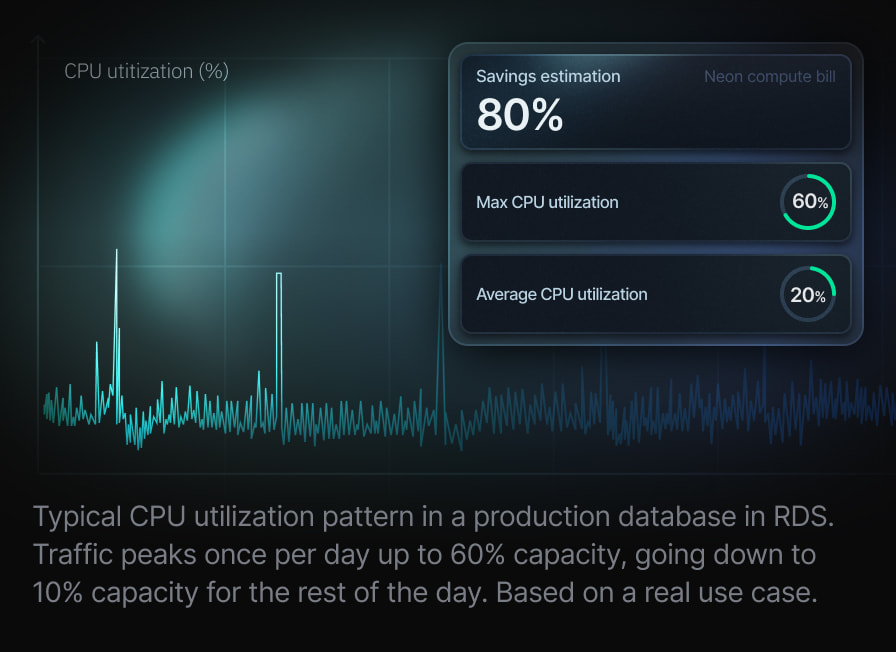
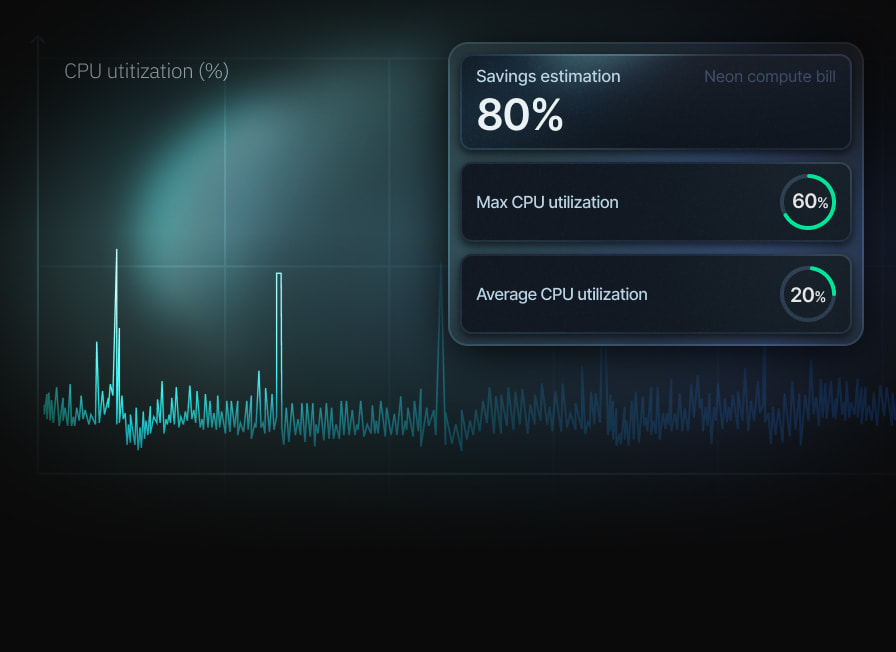
feat: move pay card feature text to html

Changed region(s): [[0.0312, 0.7669, 0.9375, 0.9509]]

diff --git a/src/components/pages/serverless-apps/features/features.jsx b/src/components/pages/serverless-apps/features/features.jsx
@@ -15,6 +15,7 @@ import speedIcon from 'icons/serverless-apps/features/speed.svg';
 import storageIcon from 'icons/serverless-apps/features/storage.svg';
 import timerIcon from 'icons/serverless-apps/features/timer.svg';
 import noServer from 'images/pages/serverless-apps/features/no-server.jpg';
+import paySm from 'images/pages/serverless-apps/features/pay-sm.jpg';
 import pay from 'images/pages/serverless-apps/features/pay.jpg';
 import provisioning from 'images/pages/serverless-apps/features/provisioning.jpg';
 import separation from 'images/pages/serverless-apps/features/separation.jpg';
@@ -111,6 +112,12 @@ const items = [
       src: pay,
       height: 326,
     },
+    imageSm: {
+      src: paySm,
+      height: 244,
+    },
+    imageText:
+      'Typical CPU utilization pattern in a production database in RDS. Traffic peaks once per day up to 60% capacity, going down to 10% capacity for the rest of the day. Based on a real use case.',
   },
 ];
 
@@ -120,21 +127,36 @@ const Features = () => (
       <h2 className="text-center font-title text-[52px] font-medium leading-none tracking-tighter xl:text-[48px] lg:text-[44px] md:text-4xl">
         True serverless Postgres
       </h2>
-      <ul className="mt-20 flex flex-col gap-[120px] lg:mt-16 lg:gap-[104px] md:mx-auto md:mt-14 md:max-w-md md:gap-14">
-        {items.map(({ title, desctiprion, features, image }, index) => (
+      <ul className="mt-20 flex flex-col gap-[120px] lg:mx-auto lg:mt-16 lg:max-w-3xl lg:gap-[104px] md:mt-14 md:max-w-sm md:gap-14">
+        {items.map(({ title, desctiprion, features, image, imageSm, imageText }, index) => (
           <li
             className="grid grid-cols-2 items-center gap-16 lg:gap-8 md:grid-cols-1 md:gap-[18px]"
             key={title}
           >
-            <div className="relative rounded-[10px]">
+            <div className="relative overflow-hidden rounded-[10px] lg:rounded-lg">
               <Image
-                className="rounded-[inherit]"
+                className={clsx('rounded-[inherit]', imageSm && 'lg:hidden')}
                 src={image.src}
                 width="448"
                 height={image.height}
                 alt={title}
                 quality={99}
               />
+              {imageSm && (
+                <Image
+                  className={clsx('hidden rounded-[inherit] lg:block')}
+                  src={imageSm.src}
+                  width="448"
+                  height={imageSm.height}
+                  alt={title}
+                  quality={99}
+                />
+              )}
+              {imageText && (
+                <p className="absolute inset-x-0 bottom-0 text-pretty p-4 text-sm font-light leading-snug tracking-extra-tight text-gray-new-50 lg:px-3 lg:py-2.5 lg:text-[13px] sm:px-2.5 sm:py-2 xs:text-[3.6vw]">
+                  {imageText}
+                </p>
+              )}
               <span className="pointer-events-none absolute inset-0 rounded-[inherit] border border-gray-new-20/30" />
             </div>
             <div className={clsx('relative', index % 2 === 1 && '-order-1 md:order-none')}>

diff --git a/src/components/pages/serverless-apps/autoscaling/autoscaling.jsx b/src/components/pages/serverless-apps/autoscaling/autoscaling.jsx
@@ -31,7 +31,7 @@ const Autoscaling = () => (
             type="video/webm"
           />
         </PauseableVideo>
-        <p className="absolute bottom-0 left-0 z-10 max-w-[784px] p-6 font-light tracking-extra-tight text-gray-new-80 lg:relative lg:max-w-[605px] md:p-5">
+        <p className="absolute bottom-0 left-0 z-10 max-w-[784px] text-pretty p-6 font-light tracking-extra-tight text-gray-new-80 lg:relative lg:max-w-[605px] md:p-5 sm:p-4 sm:text-sm">
           Neon integrates a pooler built on PgBouncer directly into its architecture: every endpoint
           has connection pooling enabled. Connections scale automatically with traffic up to 10,000
           concurrently.
